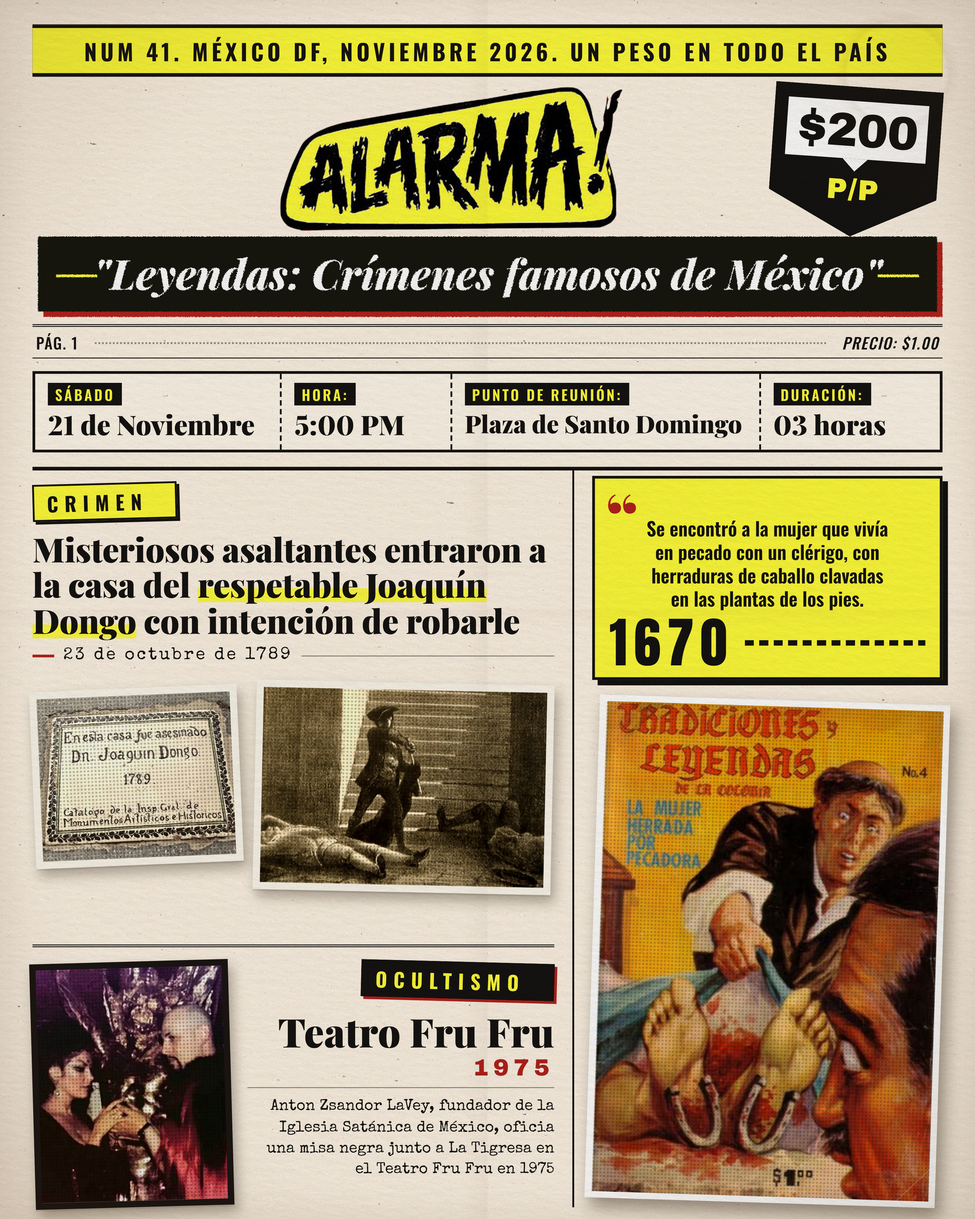
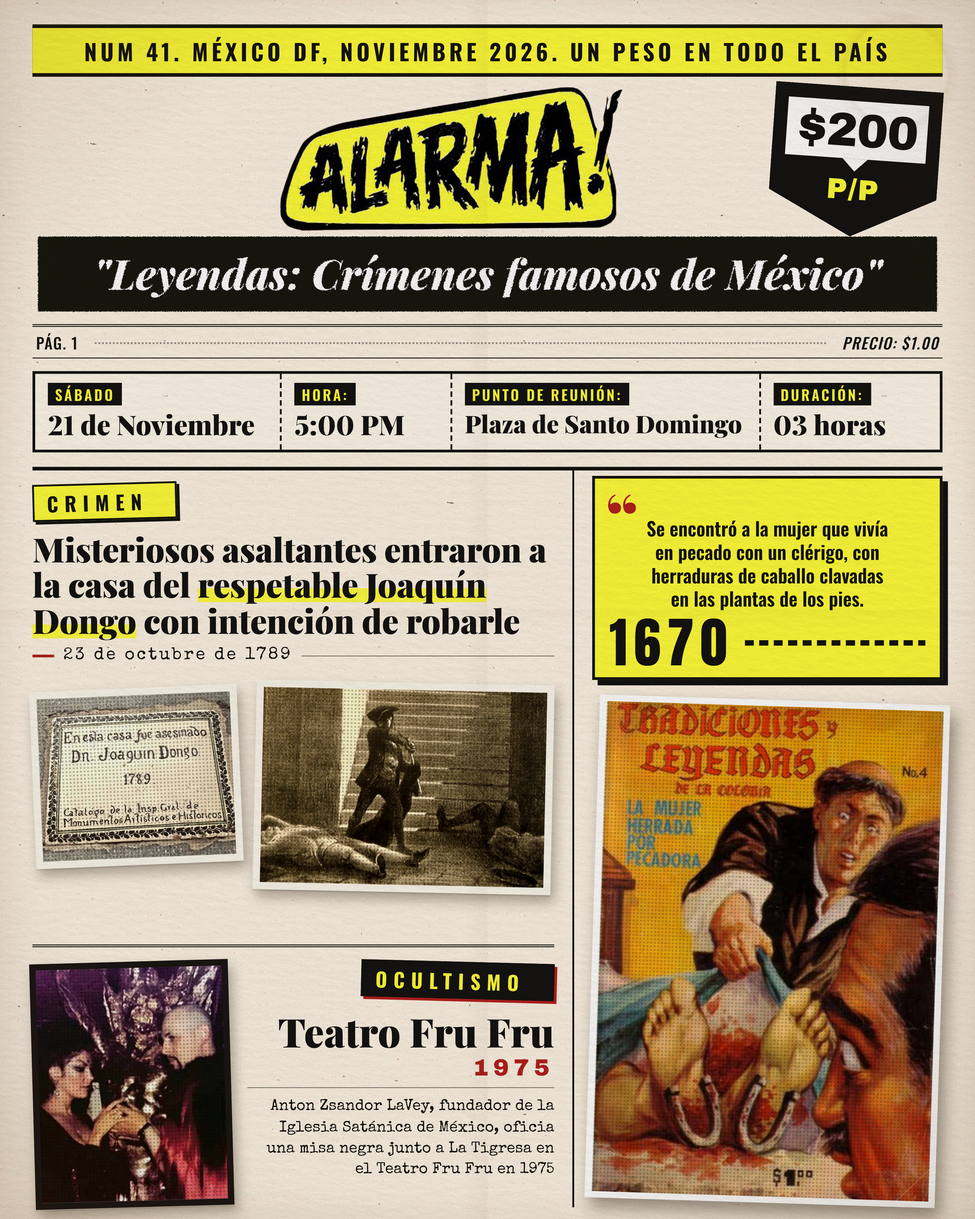
Encabezado del título sin franja roja ni guiones amarillos
Claude-Session: https://claude.ai/code/session_019rHcpYQvENxy2aNSNHooFg

Changed region(s): [[0.062, 0.2489, 0.9616, 0.28], [0.9616, 0.1867, 0.9926, 0.2489]]

diff --git a/post-alarma/fuente/post.html b/post-alarma/fuente/post.html
@@ -76,10 +76,7 @@
     position:relative;background:var(--ink);color:#fff;text-align:center;
     font-family:'Playfair Display',serif;font-weight:800;font-style:italic;font-size:46px;
     padding:9px 20px 12px;margin:0 6px;
-    box-shadow:6px 6px 0 var(--red);
   }
-  .banner::before,.banner::after{content:"";position:absolute;top:50%;width:46px;height:3px;background:var(--yellow)}
-  .banner::before{left:20px}.banner::after{right:20px}
 
   /* ---------- folio ---------- */
   .folio{
